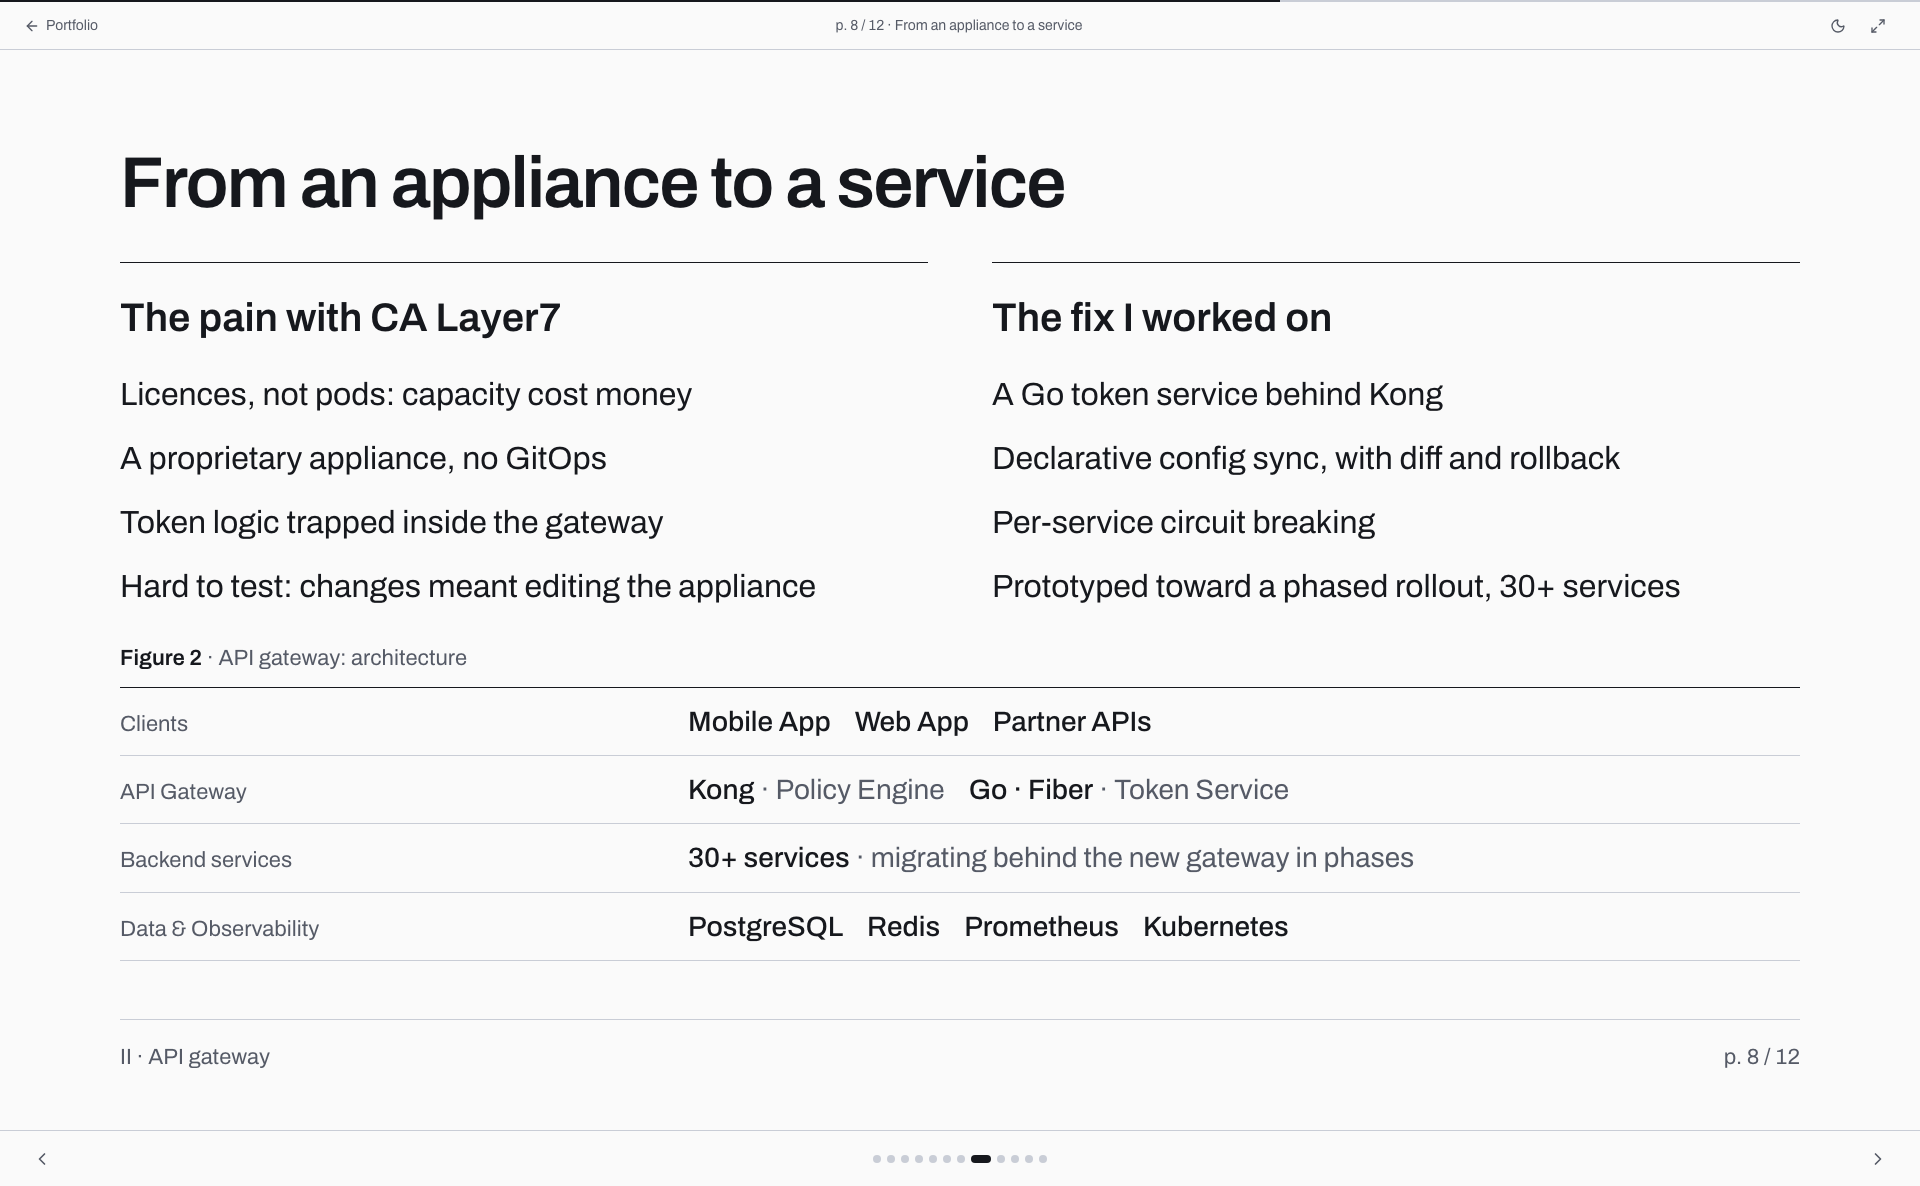
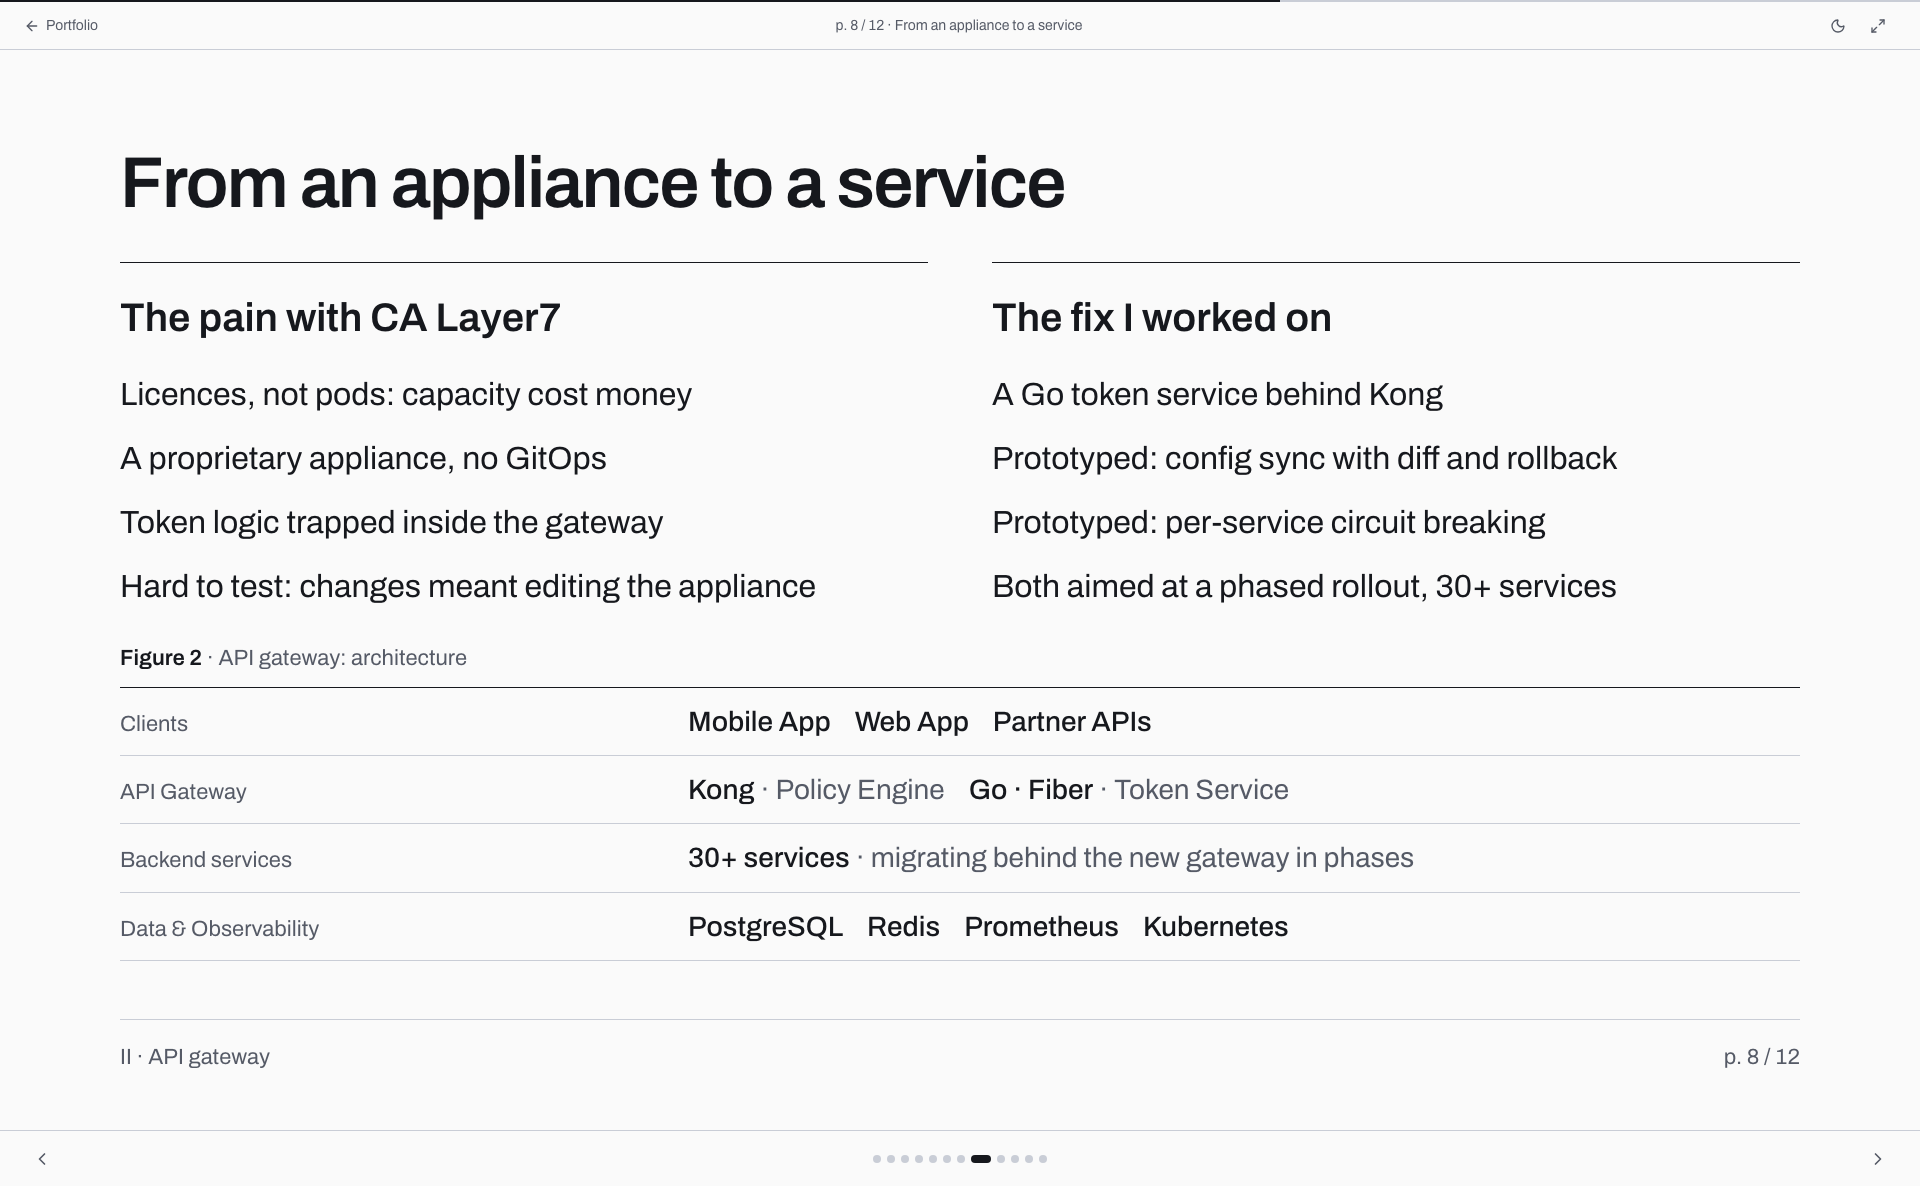
fix: Space on a focused deck control presses it; label prototyped gateway work

Changed region(s): [[0.5312, 0.4368, 0.875, 0.5304], [0.5312, 0.3744, 0.8438, 0.4056]]

diff --git a/src/components/present/slides.tsx b/src/components/present/slides.tsx
@@ -169,9 +169,9 @@ function GatewayFix() {
           title="The fix I worked on"
           items={[
             'A Go token service behind Kong',
-            'Declarative config sync, with diff and rollback',
-            'Per-service circuit breaking',
-            'Prototyped toward a phased rollout, 30+ services',
+            'Prototyped: config sync with diff and rollback',
+            'Prototyped: per-service circuit breaking',
+            'Both aimed at a phased rollout, 30+ services',
           ]}
         />
       </div>

diff --git a/src/components/Present.tsx b/src/components/Present.tsx
@@ -48,6 +48,8 @@ export default function Present() {
   useEffect(() => {
     const onKey = (e: KeyboardEvent) => {
       if (e.metaKey || e.ctrlKey || e.altKey) return;
+      // Space and Enter on a focused control press that control.
+      if ((e.key === ' ' || e.key === 'Enter') && (e.target as Element).closest?.('button, a')) return;
       switch (e.key) {
         case 'ArrowRight': case 'ArrowDown': case ' ': case 'PageDown':
           e.preventDefault(); next(); break;
